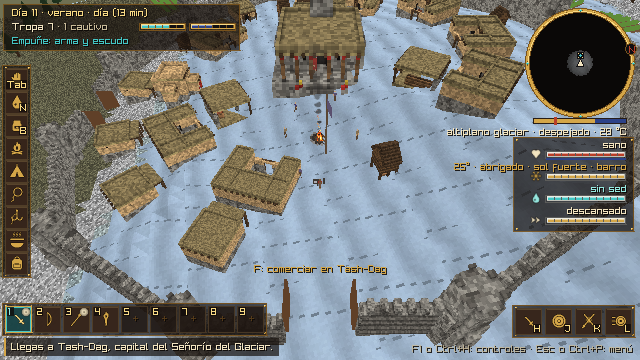
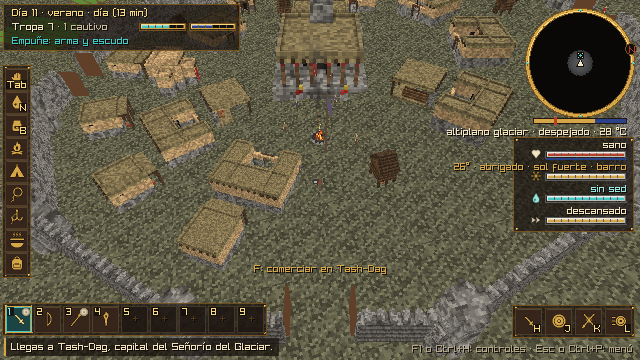
El mundo en seco (v0.10.1): nada sobre un lago ni sobre el glaciar, y reglas de ramas para Cline (#119)
Ningún pueblo, tribu, estructura o guarida sobre un lago (ni un río, el canal o el mar), mirando toda su huella; los pueblos y las tribus por debajo de la nieve de todo el año; lo que no cumple se corre al lugar válido más cercano sin tocar el azar del mundo. test_world_dry. .clinerules: reglas de ramas para no romper la compilación.

Claude-Session: https://claude.ai/code/session_01LSTD6iWnn2bnoyhKZ9wkd2

diff --git a/src/sim/world.c b/src/sim/world.c
@@ -412,6 +412,32 @@ static bool far_from_settlements(const World *w, float x, float z, float min) {
     return true;
 }
 
+// Hasta donde puede llegar el agua de un lago desde su centro: 1,3 radios (world_water) por la
+// orilla irregular (hasta 1,28).
+#define LAKE_REACH (1.3f * 1.28f)
+
+bool world_footprint_dry(const World *w, float x, float z, float r, bool sea_ok) {
+    for (int i = 0; i < w->lake_count; i++) { // los lagos, por su forma
+        const Lake *l = &w->lakes[i];
+        float reach = r + l->r * LAKE_REACH, dx = x - l->x, dz = z - l->z;
+        if (dx * dx + dz * dz < reach * reach) return false;
+    }
+    for (int i = 0; i < w->river_count; i++) { // los rios: su eje lejos de la huella
+        const River *rv = &w->rivers[i];
+        float lv;
+        if (river_box(rv, x, z, r + rv->width * 2.0f) && river_dist(rv, x, z, &lv, NULL, NULL) < r + rv->width * 1.5f) return false;
+    }
+    // El canal y el mar (grandes): el centro y dos anillos de 12 puntos.
+    for (int ring = 0; ring <= 2; ring++)
+        for (int k = 0; k < (ring ? 12 : 1); k++) {
+            float a = (float)k * (PI_F / 6.0f) + (float)ring * 0.26f, rr = r * 0.5f * (float)ring;
+            float px = x + cosf(a) * rr, pz = z + sinf(a) * rr;
+            WaterKind wk;
+            if (world_water(w, px, pz, 3.0f, &wk) > world_height(w, px, pz) - 0.5f && !(sea_ok && wk == WATER_SEA)) return false;
+        }
+    return true;
+}
+
 static bool dry_spot(const World *w, float x, float z) {
     float h = world_height(w, x, z);
     if (world_water(w, x, z, 3.0f, NULL) > h - 0.5f) return false;
@@ -628,6 +654,111 @@ static void make_creek(World *w, Rng *rng, int mains, float x, float z) {
     w->river_count++;
 }
 
+// ------------------------------------------------------------------ nada en el agua
+typedef enum { PLACE_SETTLEMENT, PLACE_TRIBE, PLACE_SITE, PLACE_DEN } PlaceKind;
+
+static bool near_any(float x, float z, float ox, float oz, float min) { return (x - ox) * (x - ox) + (z - oz) * (z - oz) < min * min; }
+
+// ¿Toda la huella queda por debajo de la nieve de todo el año? (los pueblos y las tribus)
+static bool snow_free(const World *w, float x, float z, float r) {
+    float top = w->camp_height + WORLD_SNOW_FREE;
+    if (world_height(w, x, z) > top) return false;
+    for (int k = 0; k < 8; k++) {
+        float a = (float)k * (PI_F / 4.0f);
+        if (world_height(w, x + cosf(a) * r, z + sinf(a) * r) > top) return false;
+    }
+    return true;
+}
+
+// ¿Sirve (x, z) para la cosa idx de esa clase? Las mismas reglas que al sembrarla (su region muy
+// adentro, lo seco y llano, las distancias a lo demas y al campamento) y, ademas, la huella en seco
+// y, los pueblos y las tribus, por debajo de la nieve de todo el año.
+static bool place_ok(const World *w, PlaceKind kind, int idx, float x, float z) {
+    Region rg;
+    float inset, foot, home, d2 = x * x + z * z;
+    bool sea_ok = false;
+    switch (kind) {
+    case PLACE_SETTLEMENT: {
+        const Settlement *s = &w->settlements[idx];
+        rg = s->region, inset = 500.0f, home = 450.0f, foot = s->kind == SETTLE_CAPITAL ? WORLD_FOOT_CAPITAL : WORLD_FOOT_VILLAGE;
+        for (int o = 0; o < w->settlement_count; o++)
+            if (o != idx && near_any(x, z, w->settlements[o].x, w->settlements[o].z, 600.0f)) return false;
+        for (int o = 0; o < w->tribe_count; o++)
+            if (near_any(x, z, w->tribes[o].x, w->tribes[o].z, 350.0f)) return false;
+        for (int o = 0; o < w->site_count; o++)
+            if (near_any(x, z, w->sites[o].x, w->sites[o].z, 140.0f)) return false;
+        for (int o = 0; o < w->den_count; o++)
+            if (near_any(x, z, w->dens[o].x, w->dens[o].z, 260.0f)) return false;
+        break;
+    }
+    case PLACE_TRIBE:
+        rg = w->tribes[idx].region, inset = 420.0f, home = 600.0f, foot = WORLD_FOOT_TRIBE;
+        for (int o = 0; o < w->settlement_count; o++)
+            if (near_any(x, z, w->settlements[o].x, w->settlements[o].z, 350.0f)) return false;
+        for (int o = 0; o < w->tribe_count; o++)
+            if (o != idx && near_any(x, z, w->tribes[o].x, w->tribes[o].z, 450.0f)) return false;
+        for (int o = 0; o < w->site_count; o++)
+            if (near_any(x, z, w->sites[o].x, w->sites[o].z, 120.0f)) return false;
+        break;
+    case PLACE_SITE: {
+        const WorldSite *st = &w->sites[idx];
+        rg = st->region, home = 250.0f, foot = WORLD_FOOT_SITE;
+        sea_ok = st->kind == SITE_HARBOR;
+        inset = sea_ok ? 0.0f : 300.0f;
+        if (sea_ok) { // el embarcadero, en la costa
+            float e = world_edge_distance(w, x, z);
+            if (e < SHORE_E - 30.0f || e > SHORE_E + 160.0f) return false;
+        }
+        for (int o = 0; o < w->settlement_count; o++)
+            if (near_any(x, z, w->settlements[o].x, w->settlements[o].z, 140.0f)) return false;
+        for (int o = 0; o < w->site_count; o++)
+            if (o != idx && near_any(x, z, w->sites[o].x, w->sites[o].z, 160.0f)) return false;
+        for (int o = 0; o < w->tribe_count; o++)
+            if (near_any(x, z, w->tribes[o].x, w->tribes[o].z, 120.0f)) return false;
+        break;
+    }
+    default:
+        rg = w->dens[idx].region, inset = 400.0f, home = 400.0f, foot = WORLD_FOOT_DEN;
+        for (int o = 0; o < w->settlement_count; o++)
+            if (near_any(x, z, w->settlements[o].x, w->settlements[o].z, 260.0f)) return false;
+        break;
+    }
+    if (d2 < home * home || world_region_weight(w, rg, x, z) < 0.85f) return false;
+    if (rg != REGION_STEPPE && world_edge_distance(w, x, z) < inset) return false;
+    if ((kind == PLACE_SETTLEMENT || kind == PLACE_TRIBE) && !snow_free(w, x, z, foot)) return false;
+    return dry_spot(w, x, z) && world_footprint_dry(w, x, z, foot, sea_ok);
+}
+
+// Si la cosa no sirve donde cayo, el lugar valido mas cercano (en anillos de 20 m, hasta 2 km).
+// false si no hay: queda donde estaba.
+static bool settle(const World *w, PlaceKind kind, int idx, float *x, float *z) {
+    if (place_ok(w, kind, idx, *x, *z)) return true;
+    for (float r = 20.0f; r <= 2000.0f; r += 20.0f) {
+        int n = 8 + (int)(r * 0.3f);
+        for (int k = 0; k < n; k++) {
+            float a = ((float)k + 0.5f) / (float)n * 2.0f * PI_F, px = *x + cosf(a) * r, pz = *z + sinf(a) * r;
+            if (place_ok(w, kind, idx, px, pz)) {
+                *x = px, *z = pz;
+                return true;
+            }
+        }
+    }
+    return false;
+}
+
+// Nada sobre el agua ni dentro de ella: lo que cayo sobre un lago (o un rio, el canal o el mar)
+// o, los pueblos y las tribus, sobre la nieve de todo el año, se corre al lugar valido mas cercano.
+// Va al final y sin tocar el azar: lo demas del mundo (sus nombres, lo que esta en seco) queda igual.
+static void settle_all(World *w) {
+    for (int i = 0; i < w->settlement_count; i++) settle(w, PLACE_SETTLEMENT, i, &w->settlements[i].x, &w->settlements[i].z);
+    for (int i = 0; i < w->tribe_count; i++) settle(w, PLACE_TRIBE, i, &w->tribes[i].x, &w->tribes[i].z);
+    for (int i = 0; i < w->site_count; i++) {
+        WorldSite *st = &w->sites[i];
+        if (settle(w, PLACE_SITE, i, &st->x, &st->z) && st->kind == SITE_HARBOR) st->yaw = atan2f(st->x, st->z); // mirando al mar
+    }
+    for (int i = 0; i < w->den_count; i++) settle(w, PLACE_DEN, i, &w->dens[i].x, &w->dens[i].z);
+}
+
 void world_generate(World *w, uint32_t seed) {
     memset(w, 0, sizeof(*w));
     w->seed = seed;
@@ -821,6 +952,7 @@ void world_generate(World *w, uint32_t seed) {
             n--;
         }
     }
+    settle_all(w);
 }
 
 const char *site_name(SiteKind k) {

diff --git a/tests/test_main.c b/tests/test_main.c
@@ -4819,6 +4819,64 @@ static void test_buildkit(void) {
     CHECK(over == 0);
 }
 
+// ¿Hay agua sobre el suelo en algun punto del circulo (cada 5 m), en verano o con la crecida de la
+// primavera? sea_ok: el mar no cuenta (el embarcadero da al mar).
+static bool test_wet_circle(const World *w, float x, float z, float r, bool sea_ok) {
+    for (float dz = -r; dz <= r; dz += 5.0f)
+        for (float dx = -r; dx <= r; dx += 5.0f) {
+            if (dx * dx + dz * dz > r * r) continue;
+            float px = x + dx, pz = z + dz, h = world_height(w, px, pz);
+            for (int f = 0; f < 2; f++) {
+                WaterKind k;
+                if (world_water(w, px, pz, f ? 3.0f : 0.0f, &k) > h - 0.05f && !(sea_ok && k == WATER_SEA)) return true;
+            }
+        }
+    return false;
+}
+
+// El generador del mundo no pone nada sobre el agua ni dentro de ella: ni las capitales con su
+// muralla, ni las aldeas con sus casas, ni las tribus, las estructuras o las guaridas caen en un lago
+// (ni en un rio, el canal o el mar). Los pueblos y las tribus, ademas, quedan por debajo de la nieve
+// de todo el año (el glaciar).
+static void test_world_dry(void) {
+    // La linea de nieve del verano de world.h es la de src/sim/climate.c (la mas alta del año).
+    float top = -1e9f;
+    for (int d = 0; d < DAYS_PER_YEAR * 4; d++) top = fmaxf(top, climate_at(((float)d + 0.5f) * GAME_SECONDS_PER_DAY * 0.25f, 1u).snowline);
+    CHECK(top <= WORLD_SNOWLINE_MAX + 0.01f && top >= WORLD_SNOWLINE_MAX - 0.5f);
+    CHECK(WORLD_FOOT_CAPITAL >= CITY_WALL_R + 4.0f && WORLD_FOOT_VILLAGE >= 17.0f + 5.0f); // la muralla y sus torres; el anillo de casas
+    static const uint32_t SEEDS[] = { 1206u, 7u, 42u, 1984u, 2024u, 31337u };
+    int wet = 0, snowy = 0, lots_wet = 0, things = 0;
+    for (size_t i = 0; i < sizeof(SEEDS) / sizeof(SEEDS[0]); i++) {
+        const World *w = world_for_seed(SEEDS[i]);
+        float snow = w->camp_height + WORLD_SNOW_FREE;
+        CHECK(w->settlement_count == REGION_COUNT * 4 && w->tribe_count >= 15 && w->site_count >= 40); // no se pierde nada
+        for (int k = 0; k < w->settlement_count; k++) {
+            const Settlement *s = &w->settlements[k];
+            float r = s->kind == SETTLE_CAPITAL ? WORLD_FOOT_CAPITAL : WORLD_FOOT_VILLAGE;
+            wet += test_wet_circle(w, s->x, s->z, r, false);
+            snowy += world_height(w, s->x, s->z) > snow;
+            CityLot lots[CITY_LOTS_MAX];
+            int n = city_layout(w, k, NULL, lots, CITY_LOTS_MAX);
+            for (int l = 0; l < n; l++) // las casas, el palacio, los talleres, los campos y los corrales
+                lots_wet += world_water(w, lots[l].x, lots[l].z, 0.0f, NULL) > world_height(w, lots[l].x, lots[l].z) - 0.05f;
+            things++;
+        }
+        for (int k = 0; k < w->tribe_count; k++) {
+            wet += test_wet_circle(w, w->tribes[k].x, w->tribes[k].z, WORLD_FOOT_TRIBE, false);
+            snowy += world_height(w, w->tribes[k].x, w->tribes[k].z) > snow;
+            things++;
+        }
+        for (int k = 0; k < w->site_count; k++, things++)
+            wet += test_wet_circle(w, w->sites[k].x, w->sites[k].z, WORLD_FOOT_SITE, w->sites[k].kind == SITE_HARBOR);
+        for (int k = 0; k < w->den_count; k++, things++) wet += test_wet_circle(w, w->dens[k].x, w->dens[k].z, WORLD_FOOT_DEN, false);
+    }
+    CHECK(things > 700 && wet == 0 && snowy == 0 && lots_wet == 0);
+    // La huella en seco: un punto en medio de un lago no lo esta; uno lejos de toda el agua, si.
+    const World *w = world_for_seed(1206u);
+    CHECK(!world_footprint_dry(w, w->lakes[0].x, w->lakes[0].z, 1.0f, false));
+    CHECK(world_footprint_dry(w, w->settlements[0].x, w->settlements[0].z, WORLD_FOOT_CAPITAL, false));
+}
+
 int main(void) {
     RUN(test_recruit_and_roles);
     RUN(test_progress_levels);
@@ -4945,6 +5003,7 @@ int main(void) {
     RUN(test_army);
     RUN(test_flora);
     RUN(test_buildkit);
+    RUN(test_world_dry);
     printf("\n%d comprobaciones, %d fallos\n", g_checks, g_failed);
     return g_failed ? 1 : 0;
 }

diff --git a/src/sim/world.h b/src/sim/world.h
@@ -133,6 +133,18 @@ typedef struct {
     float camp_height;                // altura del llano del campamento (origen)
 } World;
 
+// Lo que ocupa cada cosa del mundo (m de radio alrededor de su centro): nada de eso cae en el agua.
+#define WORLD_FOOT_CAPITAL 50.0f // la muralla de la capital (CITY_WALL_R, src/sim/city.h) y sus torres
+#define WORLD_FOOT_VILLAGE 24.0f // el anillo de casas de la aldea
+#define WORLD_FOOT_TRIBE 20.0f   // el corro de casas o yurtas de una tribu
+#define WORLD_FOOT_SITE 18.0f    // una estructura (la fortaleza en ruinas y la ciudad enterrada, las mas grandes)
+#define WORLD_FOOT_DEN 8.0f      // una guarida
+// La linea de nieve del verano, en m sobre el llano del campamento (src/sim/climate.c: la mas alta
+// del año): mas arriba hay nieve todo el año y glaciar. Los pueblos y las tribus, siempre por debajo
+// de WORLD_SNOW_FREE.
+#define WORLD_SNOWLINE_MAX 40.0f
+#define WORLD_SNOW_FREE (WORLD_SNOWLINE_MAX - 4.0f)
+
 void world_generate(World *w, uint32_t seed);
 // El mundo de una semilla (generado una vez y guardado).
 const World *world_for_seed(uint32_t seed);
@@ -176,6 +188,9 @@ const char *world_kingdom_name(Region r); // UTF-8
 // Nombre de la clase de estructura (UTF-8, para el texto) y si es una ruina.
 const char *site_name(SiteKind k);
 bool site_is_ruin(SiteKind k);
+// ¿La huella de radio r alrededor de (x, z) esta en seco? Ni un lago (con su orilla), ni un rio,
+// ni el canal, ni el mar (sea_ok: el embarcadero, que da al mar), con la crecida de la primavera.
+bool world_footprint_dry(const World *w, float x, float z, float r, bool sea_ok);
 // Asentamiento mas cercano (indice) o -1; dist (si no es NULL) en m.
 int world_nearest_settlement(const World *w, float x, float z, float *dist);
 int world_nearest_den(const World *w, float x, float z, float *dist);

diff --git a/docs/ROADMAP.md b/docs/ROADMAP.md
@@ -89,6 +89,7 @@ Decisión: el port de Android replica la experiencia de PC y se juega con **tecl
 - [x] Inventario por contenedores (bolsillos, mochila, alforjas, carreta, acopio y armería) con peso y estado; menú de equipo con armadura por piezas y amuletos.
 - [x] Menú de entrada (nueva partida, cargar con minifoto y fecha, instructivo), pausa con guardar y cargar, HUD limpio (F1 controles).
 - [x] Partidas por bloques con el esquema de sus campos (v0.4.4): las versiones nuevas cargan las partidas de las anteriores aunque cambien los structs; partidas de referencia en CI ([PARTIDAS.md](PARTIDAS.md)).
+- [x] El mundo en seco (v0.10.1): ningún pueblo, tribu, estructura o guarida sobre un lago (ni un río, el canal o el mar), mirando toda su huella, y los pueblos y las tribus por debajo de la nieve de todo el año; lo que no cumplía se corre al lugar válido más cercano sin cambiar el resto del mundo. Reglas de ramas para Cline en `.clinerules`.
 - [x] Los edificios de la edad del hierro (v0.10.0, la parte B del plan de herramientas): la investigación por región y un kit de piezas con reglas y semilla (`src/sim/buildkit.c`, con tests): yurtas y carretas-casa en la estepa, casas de postes y paja en el bosque, de piedra y adobe en el altiplano, largas de turba en los fiordos y de adobe con patio en el desierto; el palacio de cada región, la fundición con su horno de cuba, el cuartel, la carpintería, los graneros y el templo del fuego, con cuatro variantes; las ciudades, las aldeas y las tribus se arman con él; lo de adentro se rellena y de lejos van con la mitad de detalle; `--edificios` los muestra.
 - [x] La tubería de modelos (v0.9.3, con la herramienta de Cline): de una imagen (TRELLIS.2 en Hugging Face) o un GLB al juego en un paso: low-poly bajo el `tris_max` del inventario, colores planos con la luz horneada, a escala, en la ruta de su id y con su procedencia anotada; las personas y los animales esperan su esqueleto (RigNet) y sus clips; `--ver <id>` muestra un objeto de cerca; chequeo y pruebas en el CI.
 - [x] La vegetación (v0.9.2, desde el PR #115 de Cline): pasto, stipa con plumas plateadas, flores de primavera, helechos y juncos alrededor del jugador, del color del suelo de su región y su estación; crecen, se secan, se aplastan en invierno y la nieve los tapa (asoman la stipa y los juncos secos); el viento los mece en olas y se apartan al pasar; nada en el agua honda, la roca, los ríos, los pueblos ni los campamentos, y lo quemado reverdece. Una ventana que sigue al jugador, con menos radio en Android.

diff --git a/README.md b/README.md
@@ -195,6 +195,12 @@ Los edificios de la edad del hierro (v0.10.0):
 
 Pruebas: `--edificios tipo[:region]` (casa, palacio, fundicion, cuartel, carpinteria, granero, templo o carreta: las cuatro variantes de cada región), `--ir plaza-<region>`, `--ir capital-<region>` y `--ir aldea-<region>` (con `--dron 40 --camara 0.85`, desde arriba).
 
+El mundo en seco (v0.10.1):
+- **Nada en el agua:** ningún pueblo, tribu, estructura o guarida queda sobre un lago o dentro de él (ni sobre un río, el canal o el mar), mirando toda su huella: la capital con su muralla, la aldea con sus casas, el corro de la tribu.
+- **Ni sobre el glaciar:** los pueblos y las tribus quedan por debajo de la nieve de todo el año. Tash-Dag, la capital del altiplano, ya no está sobre el hielo.
+- Lo que no cumplía se corre al lugar válido más cercano; el resto del mundo, sus nombres y las partidas guardadas quedan igual.
+- **Para Cline:** `.clinerules` explica cómo trabajar sin romper la compilación: ramas desde el `main` al día, traer `main` y compilar de cero antes de subir, C11 que compile en Linux, Windows y Android, los archivos nuevos en `CMakeLists.txt`, sin bibliotecas nuevas y con el CI en verde antes de fusionar.
+
 Fabricar y reparar (`Tab`, pestañas Fabricar y Reparar): a mano, flechas (leña + plumas + pedernal → 5), virotes, piedras de honda, cuerda de tendones, ungüento (hierbas + miel), coraza de cuero y botas de fieltro, y lo de los oficios (más abajo, «Oficios, comercio y saqueo»); lo forjado pide herrero y horno. Los ingredientes se recolectan: matas de hierbas y pedernal en el campo (`F`), plumas de las aves y hueso y tendones de los demás animales al despiezarlos (`F`). Reparar: fieltro y cuero con pieles (sin pieles, se untan con grasa: devuelve menos); bronce, hierro y acero con herrero, horno (o la forja móvil) y metal.
 
 Botín: los enemigos abatidos dejan una bolsa (su arma, su escudo, flechas, comida, a veces un amuleto y piezas de su armadura con el desgaste que tengan); `F` junto a ella guarda lo que quepa.

diff --git a/docs/MUNDO.md b/docs/MUNDO.md
@@ -46,6 +46,9 @@ El norte es −Z y el este +X.
   - Las guaridas quedan lejos de los pueblos.
 - **Nombres de los pueblos:** se arman con sílabas de cada región, sin repetirse.
 - **Tribus y estructuras:** dónde caen y qué actitud tiene cada tribu (siempre de las tres en cada región).
+- **Nada en el agua** (v0.10.1, `world_footprint_dry` y `settle_all` en `src/sim/world.c`): ningún pueblo, tribu, estructura o guarida queda sobre un lago o dentro de él, con su orilla; tampoco sobre un río, el canal o el mar (el embarcadero sí da al mar). Se mira toda su huella: la capital con su muralla (50 m de radio), la aldea con sus casas (24 m), el corro de la tribu (20 m), la estructura (18 m) y la guarida (8 m), también con la crecida de la primavera.
+  - Los pueblos y las tribus, además, quedan por debajo de la nieve de todo el año: la línea de nieve del verano, 40 m sobre el llano del campamento, menos 4 m (no más ciudades sobre el glaciar del altiplano).
+  - Lo que no cumple se corre al lugar válido más cercano (con las mismas reglas de su región y distancias), al final de la generación y sin tocar el azar: el resto del mundo y los nombres quedan iguales. En cada semilla se mueven unas 7 a 11 cosas de unas 127, de 20 a 340 m.
 
 ## El suelo, el horizonte y el cielo
 
